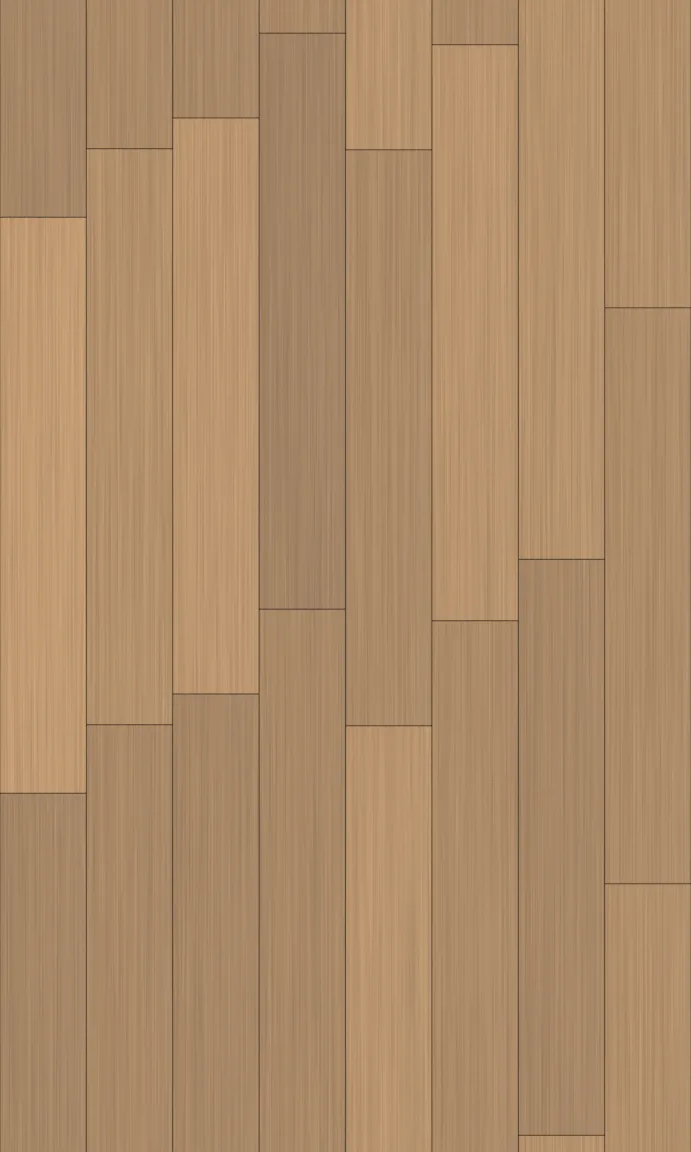
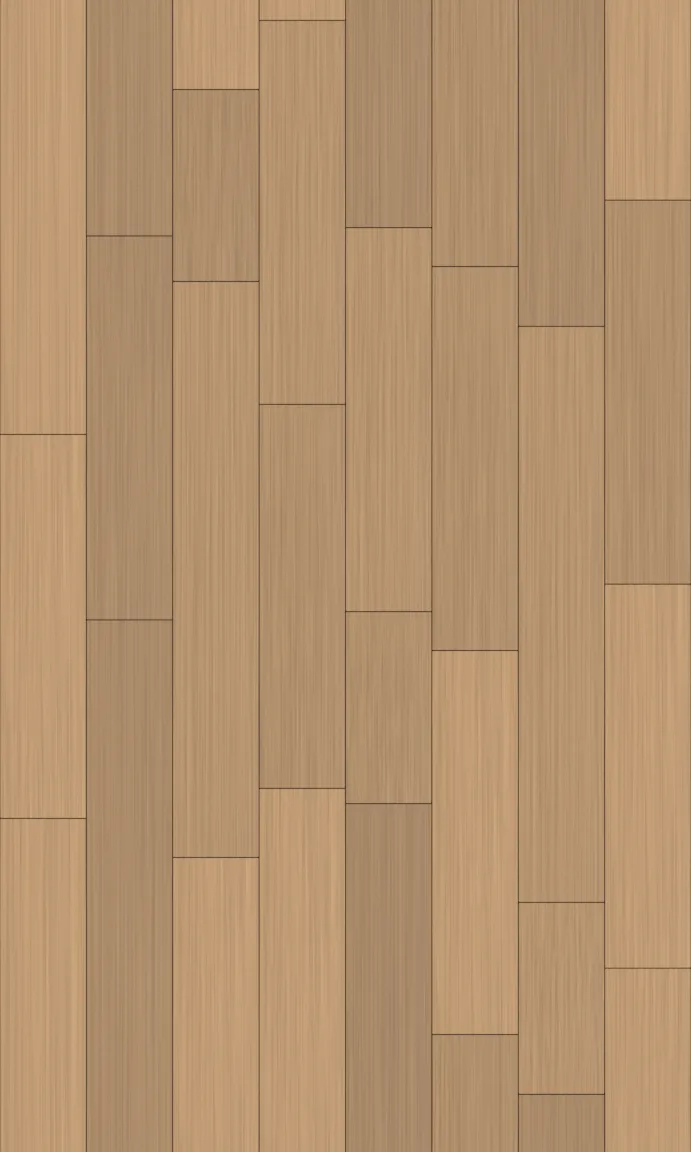
feat(simulator): rustiger kleuren in de 3D-woning en parket in wild verband
- Muursnede donker warmbruin in plaats van bijna-zwart: elke muur had een zware
  zwarte omtrek.
- Glas lichter blauwgrijs, voordeur antraciet, binnendeuren licht eiken in plaats
  van grijsbruin, keukenkasten iets witter tegen de warme muren van "afgewerkt".
- Dakpannen een tint lichter: het dak was één zwarte vlek, nu zie je de pannen.
- Parket in wild verband (planken van 0,8 tot 1,6 m): twee planken per kolom op
  een halve verschuiving las als een visgraat die elke 1,4 m terugkwam. Minder
  oranje, iets lichter.

Claude-Session: https://claude.ai/code/session_01FKa4UzqiB96HXXgpAJ9vUo

diff --git a/src/components/simulator/3d/IsoHouse3D.tsx b/src/components/simulator/3d/IsoHouse3D.tsx
@@ -104,12 +104,14 @@ function maakMaterialen(tex: Record<TegelNaam, Texture>, m: Materiaal): MatSet {
     ["baksteen", s("#f3e2d8", { map: baksteen, bumpMap: baksteen, bumpScale: 1.2, roughness: 0.92 })],
     ["arduin", s("#ffffff", { map: t("arduin"), roughness: 0.55 })],
     ["plaat", s("#d9d2c6", { roughness: 0.9 })],
-    ["snede", s("#2a2422", { roughness: 0.95 })],
+    // De snede van een opengewerkte muur: donker warmbruin. Bijna-zwart tekende elke muur met
+    // een zware omtrek; middengrijs liet de kamers in elkaar overlopen.
+    ["snede", s("#4f433c", { roughness: 0.95 })],
     ["kader", s("#f4f1ec", { roughness: 0.32 })],
-    ["glas", s("#33454f", { roughness: 0.05, metalness: 0.15, envMapIntensity: 2.4 })],
-    ["deur", s("#3b2a22", { roughness: 0.45 })],
-    ["deurblad", s("#8a7464", { roughness: 0.6 })],
-    ["pannen", s("#c9c9cc", { map: pannen, bumpMap: pannen, bumpScale: 1.5, roughness: 0.5 })],
+    ["glas", s("#5a7482", { roughness: 0.05, metalness: 0.15, envMapIntensity: 2.0 })],
+    ["deur", s("#33363a", { roughness: 0.45 })],
+    ["deurblad", s("#c9a57d", { roughness: 0.55 })],
+    ["pannen", s("#e4e4e6", { map: pannen, bumpMap: pannen, bumpScale: 1.5, roughness: 0.5 })],
     ["zink", s("#a7adb1", { metalness: 0.75, roughness: 0.32 })],
     ["zinkdak", s("#3a3d40", { metalness: 0.55, roughness: 0.45 })],
     ["boei", s("#2c2e31", { roughness: 0.6 })],
@@ -122,7 +124,7 @@ function maakMaterialen(tex: Record<TegelNaam, Texture>, m: Materiaal): MatSet {
     ["leuning", s("#2a2422", { roughness: 0.5 })],
     ["grind", s("#ffffff", { map: t("grind"), roughness: 0.95 })],
     // Inrichting (inrichting.ts)
-    ["kast", s("#ece9e3", { roughness: 0.35 })],
+    ["kast", s("#f3f0ea", { roughness: 0.35 })],
     ["voeg", s("#9d978e", { roughness: 0.6 })],
     ["zwart", s("#232323", { roughness: 0.7 })],
     ["werkblad", s("#3d3835", { roughness: 0.28 })],

diff --git a/src/components/simulator/materiaal.ts b/src/components/simulator/materiaal.ts
@@ -35,7 +35,7 @@ const FASE_BEELD: Record<Fase, { muurTegel: MuurTegel; muur: string; vloerTegel:
   gepleisterd: { muurTegel: "pleisternat", muur: "#d9cdc1", vloerTegel: "chape", vloer: "#b4ada2", glas: true, inrichting: false },
   // walls stay as the plasterer left them: they are only finished at "afgewerkt"
   tegels: { muurTegel: "pleisternat", muur: "#d9cdc1", vloerTegel: "tegelvloer", vloer: "#ffffff", glas: true, inrichting: false },
-  afgewerkt: { muurTegel: "verf", muur: "#f2eee7", vloerTegel: "parket", vloer: "#ffffff", glas: true, inrichting: true },
+  afgewerkt: { muurTegel: "verf", muur: "#f0eae1", vloerTegel: "parket", vloer: "#ffffff", glas: true, inrichting: true },
 };
 
 /** Hoe muren en vloer eruitzien in deze fase — alleen beeld, geen rekenwerk. */

diff --git a/scripts/simulator-3d/texturen.py b/scripts/simulator-3d/texturen.py
@@ -512,8 +512,7 @@ def grind2():
 
 def parket2():
     """Eiken planken met de houttekening van parket.py uit de vochtsimulator: lange
-    draad, poriën en een zachte vlam, elke plank uit een eigen stuk stam. Zelfde legpatroon
-    als de eerste reeks (twee planken per kolom, halfsteens verspringend)."""
+    draad, poriën en een zachte vlam, in wild verband."""
     PB, COLS, PL = 0.18, 8, 1.2
     PW, PH = PB * COLS, PL * 2
     sc = nieuwe_scene(PW, PH, 480, samples=48)
@@ -526,9 +525,9 @@ def parket2():
     def eik(k):
         m = bpy.data.materials.new(f'eik-{k}'); m.use_nodes = True
         n = m.node_tree.nodes; l = m.node_tree.links; b = n['Principled BSDF']
-        toon = rnd.uniform(0.88, 1.08)
-        licht = lin(*(min(1, c * toon) for c in (0.74, 0.58, 0.40)))
-        donker = lin(*(c * toon for c in (0.47, 0.33, 0.2)))
+        toon = rnd.uniform(0.92, 1.06)
+        licht = lin(*(min(1, c * toon) for c in (0.78, 0.62, 0.44)))
+        donker = lin(*(c * toon for c in (0.52, 0.38, 0.25)))
         tc = n.new('ShaderNodeTexCoord')
         mp = n.new('ShaderNodeMapping'); mp.inputs['Scale'].default_value = (70, 2.2, 1)
         mp.inputs['Location'].default_value = (rnd.uniform(0, 50), rnd.uniform(0, 50), 0)
@@ -552,16 +551,24 @@ def parket2():
         l.new(h, bp.inputs['Height']); l.new(bp.outputs[0], b.inputs['Normal'])
         return m
 
-    # Per plank een eigen materiaal: de Location-verschuiving in de mapping is per materiaal,
-    # en Object Info › Random zou tussen een plank en zijn periodieke kopie verschillen.
-    offsets = [rnd.uniform(0, PL) for _ in range(COLS)]
-    hout = {(c, k): eik(f'{c}-{k}') for c in range(COLS) for k in range(2)}
+    # Planken van 0,8 tot 1,6 m, per kolom vanaf een eigen start tot de periode vol is. Twee
+    # planken per kolom op een halve verschuiving las in de woning als een visgraat die elke
+    # 1,4 m terugkwam. Een plank die over de rand loopt staat er via `periodiek` een periode
+    # verder nog eens; binnen een kolom raken de planken elkaar nooit dubbel.
+    planken = []
+    for c in range(COLS):
+        y = rnd.uniform(0, PH); eind = y + PH
+        while y < eind - 0.05:
+            L = min(rnd.choice((0.8, 1.2, 1.6)), eind - y)
+            planken.append((c, (y + L / 2) % PH, L))
+            y += L
+    # Tien houtsoorten: elk een eigen stuk stam (de Location-verschuiving in de mapping).
+    hout = [eik(k) for k in range(10)]
+    keuze = [rnd.randrange(len(hout)) for _ in planken]
 
     def maak(dx, dy):
-        for c in range(COLS):
-            for k in range(2):
-                y = dy + offsets[c] + k * PL
-                blok(f'plank-{c}-{k}', dx + c * PB + PB / 2, y + PL / 2, 0, PB - 0.002, PL - 0.002, 0.01, hout[(c, k)], bevel=0.0015)
+        for i, (c, yc, L) in enumerate(planken):
+            blok(f'plank-{i}', dx + c * PB + PB / 2, dy + yc, 0, PB - 0.002, L - 0.002, 0.01, hout[keuze[i]], bevel=0.0015)
     periodiek(sc, PW, PH, maak)
     render(sc, 'parket')
 
